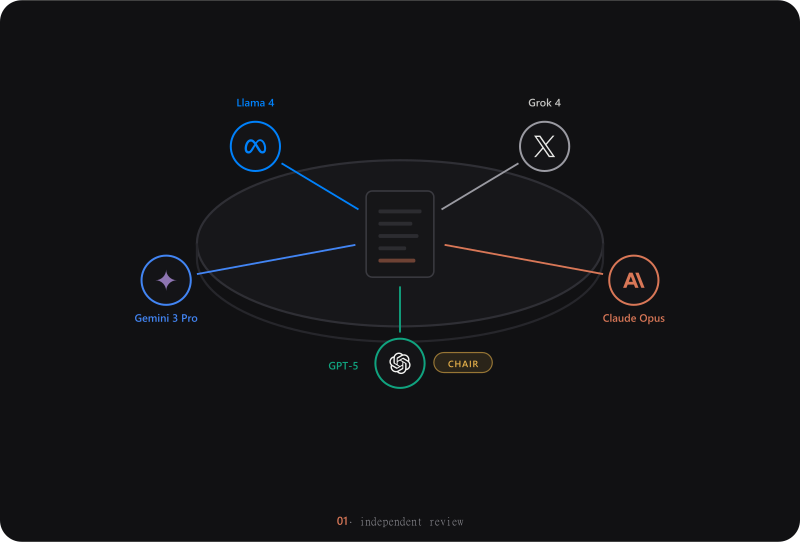
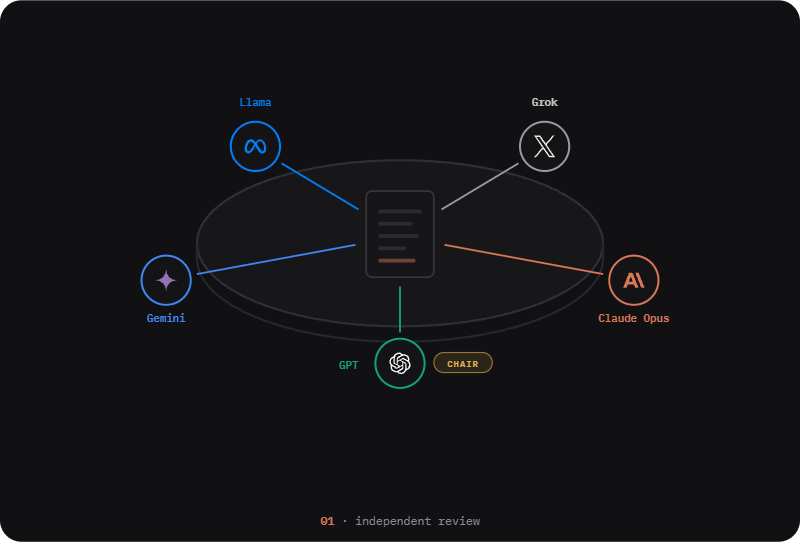
docs(art): use durable family names instead of version numbers in hero/site art (#64)
Model version numbers (GPT-5.5, Gemini 3 Pro, DeepSeek R1, Llama 4, Grok 4, etc.)
go stale; replace with family names (GPT, Gemini, DeepSeek, Llama, Grok, Claude)
across the README council/what-is-amicus images, the GitHub Pages site (hero SVG +
provider chips), the social card, hero.svg, and alt text. Provider chips keep
durable tier/line names (Flash, Pro / Opus, Sonnet, Haiku / GPT, o-series /
Chat, Reasoner). PNGs re-rendered from their SVGs.

diff --git a/site/index.html b/site/index.html
@@ -424,7 +424,7 @@ h2.v .w-anim{opacity:1;transform:none}
       <text x="406" y="15" text-anchor="middle" font-family="IBM Plex Mono,monospace" font-size="8" font-weight="600" fill="#d97757">Amicus</text>
       <!-- Model badge -->
       <rect x="344" y="28" width="90" height="16" rx="8" fill="#4285F4" opacity=".18"/>
-      <text x="389" y="39" text-anchor="middle" font-family="IBM Plex Mono,monospace" font-size="7.5" font-weight="600" fill="#7aafff">Gemini 3 Pro</text>
+      <text x="389" y="39" text-anchor="middle" font-family="IBM Plex Mono,monospace" font-size="7.5" font-weight="600" fill="#7aafff">Gemini</text>
       <!-- Chat -->
       <rect x="310" y="52" width="190" height="30" rx="5" fill="#1c1c1f"/>
       <text x="318" y="64" font-family="Outfit,sans-serif" font-size="7.5" font-weight="600" fill="#a1a1a0">You</text>
@@ -670,7 +670,7 @@ h2.v .w-anim{opacity:1;transform:none}
       <path transform="translate(101,175) scale(.583)" fill="#8E75B2" d="M11.04 19.32Q12 21.51 12 24q0-2.49.93-4.68.96-2.19 2.58-3.81t3.81-2.55Q21.51 12 24 12q-2.49 0-4.68-.93a12.3 12.3 0 0 1-3.81-2.58 12.3 12.3 0 0 1-2.58-3.81Q12 2.49 12 0q0 2.49-.96 4.68-.93 2.19-2.55 3.81a12.3 12.3 0 0 1-3.81 2.58Q2.49 12 0 12q2.49 0 4.68.96 2.19.93 3.81 2.55t2.55 3.81"/>
       <text x="108" y="209" text-anchor="middle" font-family="IBM Plex Mono,monospace" font-size="7" font-weight="600" fill="#4285F4">
         <animate attributeName="opacity" values="1;1;0;0;1;1" keyTimes="0;.1675;.1775;.3125;.3225;1" dur="24s" repeatCount="indefinite"/>
-        Gemini 3 Pro</text>
+        Gemini</text>
       <text x="108" y="209" text-anchor="middle" font-family="IBM Plex Mono,monospace" font-size="7" fill="#666" opacity="0">
         <animate attributeName="opacity" values="0;0;1;1;0;0" keyTimes="0;.1675;.1775;.3125;.3225;1" dur="24s" repeatCount="indefinite"/>
         anon-1</text>
@@ -688,7 +688,7 @@ h2.v .w-anim{opacity:1;transform:none}
       <path transform="translate(159,88) scale(.583)" fill="#0081FB" d="M6.915 4.03c-1.968 0-3.683 1.28-4.871 3.113C.704 9.208 0 11.883 0 14.449c0 .706.07 1.369.21 1.973a6.624 6.624 0 0 0 .265.86 5.297 5.297 0 0 0 .371.761c.696 1.159 1.818 1.927 3.593 1.927 1.497 0 2.633-.671 3.965-2.444.76-1.012 1.144-1.626 2.663-4.32l.756-1.339.186-.325c.061.1.121.196.183.3l2.152 3.595c.724 1.21 1.665 2.556 2.47 3.314 1.046.987 1.992 1.22 3.06 1.22 1.075 0 1.876-.355 2.455-.843a3.743 3.743 0 0 0 .81-.973c.542-.939.861-2.127.861-3.745 0-2.72-.681-5.357-2.084-7.45-1.282-1.912-2.957-2.93-4.716-2.93-1.047 0-2.088.467-3.053 1.308-.652.57-1.257 1.29-1.82 2.05-.69-.875-1.335-1.547-1.958-2.056-1.182-.966-2.315-1.303-3.454-1.303zm10.16 2.053c1.147 0 2.188.758 2.992 1.999 1.132 1.748 1.647 4.195 1.647 6.4 0 1.548-.368 2.9-1.839 2.9-.58 0-1.027-.23-1.664-1.004-.496-.601-1.343-1.878-2.832-4.358l-.617-1.028a44.908 44.908 0 0 0-1.255-1.98c.07-.109.141-.224.211-.327 1.12-1.667 2.118-2.602 3.358-2.602zm-10.201.553c1.265 0 2.058.791 2.675 1.446.307.327.737.871 1.234 1.579l-1.02 1.566c-.757 1.163-1.882 3.017-2.837 4.338-1.191 1.649-1.81 1.817-2.486 1.817-.524 0-1.038-.237-1.383-.794-.263-.426-.464-1.13-.464-2.046 0-2.221.63-4.535 1.66-6.088.454-.687.964-1.226 1.533-1.533a2.264 2.264 0 0 1 1.088-.285z"/>
       <text x="166" y="69" text-anchor="middle" font-family="IBM Plex Mono,monospace" font-size="7" font-weight="600" fill="#0081FB">
         <animate attributeName="opacity" values="1;1;0;0;1;1" keyTimes="0;.1675;.1775;.3125;.3225;1" dur="24s" repeatCount="indefinite"/>
-        Llama 4</text>
+        Llama</text>
       <text x="166" y="69" text-anchor="middle" font-family="IBM Plex Mono,monospace" font-size="7" fill="#666" opacity="0">
         <animate attributeName="opacity" values="0;0;1;1;0;0" keyTimes="0;.1675;.1775;.3125;.3225;1" dur="24s" repeatCount="indefinite"/>
         anon-2</text>
@@ -706,7 +706,7 @@ h2.v .w-anim{opacity:1;transform:none}
       <path transform="translate(347,88) scale(.583)" fill="#e8e8e6" d="M14.234 10.162 22.977 0h-2.072l-7.591 8.824L7.251 0H.258l9.168 13.343L.258 24H2.33l8.016-9.318L16.749 24h6.993zm-2.837 3.299-.929-1.329L3.076 1.56h3.182l5.965 8.532.929 1.329 7.754 11.09h-3.182z"/>
       <text x="354" y="69" text-anchor="middle" font-family="IBM Plex Mono,monospace" font-size="7" font-weight="600" fill="#c5c5c3">
         <animate attributeName="opacity" values="1;1;0;0;1;1" keyTimes="0;.1675;.1775;.3125;.3225;1" dur="24s" repeatCount="indefinite"/>
-        Grok 4</text>
+        Grok</text>
       <text x="354" y="69" text-anchor="middle" font-family="IBM Plex Mono,monospace" font-size="7" fill="#666" opacity="0">
         <animate attributeName="opacity" values="0;0;1;1;0;0" keyTimes="0;.1675;.1775;.3125;.3225;1" dur="24s" repeatCount="indefinite"/>
         anon-4</text>
@@ -731,7 +731,7 @@ h2.v .w-anim{opacity:1;transform:none}
     </g>
   </g>
 
-  <!-- Lap A chair: GPT-5 (bottom center) -->
+  <!-- Lap A chair: GPT (bottom center) -->
   <g opacity="0">
     <animate attributeName="opacity" from="0" to="1" dur="0.45s" begin="1.38s" fill="freeze"/>
     <g>
@@ -742,7 +742,7 @@ h2.v .w-anim{opacity:1;transform:none}
       <path transform="translate(253,229) scale(.583)" fill="#f5f5f3" d="M22.2819 9.8211a5.9847 5.9847 0 0 0-.5157-4.9108 6.0462 6.0462 0 0 0-6.5098-2.9A6.0651 6.0651 0 0 0 4.9807 4.1818a5.9847 5.9847 0 0 0-3.9977 2.9 6.0462 6.0462 0 0 0 .7427 7.0966 5.98 5.98 0 0 0 .511 4.9107 6.051 6.051 0 0 0 6.5146 2.9001A5.9847 5.9847 0 0 0 13.2599 24a6.0557 6.0557 0 0 0 5.7718-4.2058 5.9894 5.9894 0 0 0 3.9977-2.9001 6.0557 6.0557 0 0 0-.7475-7.0729zm-9.022 12.6081a4.4755 4.4755 0 0 1-2.8764-1.0408l.1419-.0804 4.7783-2.7582a.7948.7948 0 0 0 .3927-.6813v-6.7369l2.02 1.1686a.071.071 0 0 1 .038.052v5.5826a4.504 4.504 0 0 1-4.4945 4.4944zm-9.6607-4.1254a4.4708 4.4708 0 0 1-.5346-3.0137l.142.0852 4.783 2.7582a.7712.7712 0 0 0 .7806 0l5.8428-3.3685v2.3324a.0804.0804 0 0 1-.0332.0615L9.74 19.9502a4.4992 4.4992 0 0 1-6.1408-1.6464zM2.3408 7.8956a4.485 4.485 0 0 1 2.3655-1.9728V11.6a.7664.7664 0 0 0 .3879.6765l5.8144 3.3543-2.0201 1.1685a.0757.0757 0 0 1-.071 0l-4.8303-2.7865A4.504 4.504 0 0 1 2.3408 7.872zm16.5963 3.8558L13.1038 8.364 15.1192 7.2a.0757.0757 0 0 1 .071 0l4.8303 2.7913a4.4944 4.4944 0 0 1-.6765 8.1042v-5.6772a.79.79 0 0 0-.407-.667zm2.0107-3.0231l-.142-.0852-4.7735-2.7818a.7759.7759 0 0 0-.7854 0L9.409 9.2297V6.8974a.0662.0662 0 0 1 .0284-.0615l4.8303-2.7866a4.4992 4.4992 0 0 1 6.6802 4.66zM8.3065 12.863l-2.02-1.1638a.0804.0804 0 0 1-.038-.0567V6.0742a4.4992 4.4992 0 0 1 7.3757-3.4537l-.142.0805L8.704 5.459a.7948.7948 0 0 0-.3927.6813zm1.0976-2.3654l2.602-1.4998 2.6069 1.4998v2.9994l-2.5974 1.4997-2.6067-1.4997Z"/>
       <text x="233" y="240" text-anchor="end" font-family="IBM Plex Mono,monospace" font-size="7" font-weight="600" fill="#10a37f">
         <animate attributeName="opacity" values="1;1;0;0;1;1" keyTimes="0;.1675;.1775;.3125;.3225;1" dur="24s" repeatCount="indefinite"/>
-        GPT-5</text>
+        GPT</text>
       <text x="233" y="240" text-anchor="end" font-family="IBM Plex Mono,monospace" font-size="7" fill="#666" opacity="0">
         <animate attributeName="opacity" values="0;0;1;1;0;0" keyTimes="0;.1675;.1775;.3125;.3225;1" dur="24s" repeatCount="indefinite"/>
         anon-3</text>
@@ -764,7 +764,7 @@ h2.v .w-anim{opacity:1;transform:none}
     <path transform="translate(253,73) scale(.583)" fill="#4D6BFE" d="M23.748 4.651c-.254-.124-.364.113-.512.233-.051.04-.094.09-.137.137-.372.397-.806.657-1.373.626-.829-.046-1.537.214-2.163.848-.133-.782-.575-1.248-1.247-1.548-.352-.155-.708-.311-.955-.65-.172-.24-.219-.509-.305-.774-.055-.16-.11-.323-.293-.35-.2-.031-.278.136-.356.276-.313.572-.434 1.202-.422 1.84.027 1.436.633 2.58 1.838 3.393.137.094.172.187.129.323-.082.28-.18.553-.266.833-.055.179-.137.218-.328.14a5.5 5.5 0 0 1-1.737-1.179c-.857-.828-1.631-1.743-2.597-2.46a12 12 0 0 0-.689-.47c-.985-.957.13-1.743.387-1.836.27-.098.094-.433-.778-.428-.872.003-1.67.295-2.687.685a3 3 0 0 1-.465.136 9.6 9.6 0 0 0-2.883-.101c-1.885.21-3.39 1.1-4.497 2.622C.082 8.776-.231 10.854.152 13.02c.403 2.284 1.568 4.175 3.36 5.653 1.857 1.533 3.997 2.284 6.438 2.14 1.482-.085 3.132-.284 4.994-1.86.47.234.962.328 1.78.398.629.058 1.235-.031 1.705-.129.735-.155.684-.836.418-.961-2.155-1.004-1.682-.595-2.112-.926 1.095-1.295 2.768-3.598 3.284-6.733.05-.346.115-.834.108-1.114-.004-.171.035-.238.23-.257a4.2 4.2 0 0 0 1.545-.475c1.397-.763 1.96-2.016 2.093-3.517.02-.23-.004-.467-.247-.588M11.58 18.168c-2.088-1.642-3.101-2.183-3.52-2.16-.39.024-.32.472-.234.763.09.288.207.487.371.74.114.167.192.416-.113.603-.673.416-1.842-.14-1.897-.168-1.361-.801-2.5-1.86-3.301-3.306-.775-1.393-1.225-2.888-1.299-4.482-.02-.385.094-.522.477-.592a4.7 4.7 0 0 1 1.53-.038c2.131.311 3.946 1.264 5.467 2.774.868.86 1.525 1.887 2.202 2.89.72 1.066 1.494 2.082 2.48 2.915.348.291.626.513.892.677-.802.09-2.14.109-3.055-.615zm1.001-6.44a.306.306 0 0 1 .415-.287.3.3 0 0 1 .113.074.3.3 0 0 1 .086.214c0 .17-.136.307-.308.307a.303.303 0 0 1-.306-.307m3.11 1.596c-.2.081-.4.151-.591.16a1.25 1.25 0 0 1-.798-.254c-.274-.23-.47-.358-.551-.758a1.7 1.7 0 0 1 .015-.588c.07-.327-.007-.537-.238-.727-.188-.156-.426-.199-.689-.199a.6.6 0 0 1-.254-.078.253.253 0 0 1-.114-.358 1 1 0 0 1 .192-.21c.356-.202.767-.136 1.146.016.352.144.618.408 1.001.782.392.451.462.576.685.915.176.264.336.536.446.848.066.194-.02.353-.25.45"/>
     <text x="260" y="54" text-anchor="middle" font-family="IBM Plex Mono,monospace" font-size="7" font-weight="600" fill="#4D6BFE">
       <animate attributeName="opacity" values="1;1;0;0;1;1" keyTimes="0;.6675;.6775;.8125;.8225;1" dur="24s" repeatCount="indefinite"/>
-      DeepSeek R1</text>
+      DeepSeek</text>
     <text x="260" y="54" text-anchor="middle" font-family="IBM Plex Mono,monospace" font-size="7" fill="#666" opacity="0">
       <animate attributeName="opacity" values="0;0;1;1;0;0" keyTimes="0;.6675;.6775;.8125;.8225;1" dur="24s" repeatCount="indefinite"/>
       anon-1</text>
@@ -794,7 +794,7 @@ h2.v .w-anim{opacity:1;transform:none}
     <path transform="translate(413,151) scale(.583)" fill="#615CED" d="M23.919 14.545 20.817 9.17l1.47-2.544a.56.56 0 0 0 0-.566l-1.633-2.83a.57.57 0 0 0-.49-.283h-6.207L12.487.402a.57.57 0 0 0-.49-.284H8.732a.56.56 0 0 0-.49.284L5.139 5.775h-2.94a.56.56 0 0 0-.49.284L.077 8.887a.56.56 0 0 0 0 .567L3.18 14.83l-1.47 2.545a.56.56 0 0 0 0 .566l1.634 2.83a.57.57 0 0 0 .49.283h6.205l1.47 2.545a.57.57 0 0 0 .49.284h3.266a.57.57 0 0 0 .49-.284l3.104-5.375h2.94a.57.57 0 0 0 .49-.283l1.634-2.828a.55.55 0 0 0-.004-.568M8.733.686l1.634 2.828-1.634 2.828H21.8L20.164 9.17H7.425L5.63 6.06Zm1.306 19.801-6.205-.002 1.634-2.83h3.265L2.201 6.344h3.267q3.182 5.517 6.367 11.032zm10.124-5.66L18.53 12l-6.532 11.315-1.634-2.83c2.129-3.673 4.25-7.351 6.373-11.028h3.592l3.102 5.374z"/>
     <text x="420" y="185" text-anchor="middle" font-family="IBM Plex Mono,monospace" font-size="7" font-weight="600" fill="#615CED">
       <animate attributeName="opacity" values="1;1;0;0;1;1" keyTimes="0;.6675;.6775;.8125;.8225;1" dur="24s" repeatCount="indefinite"/>
-      Qwen 3</text>
+      Qwen</text>
     <text x="420" y="185" text-anchor="middle" font-family="IBM Plex Mono,monospace" font-size="7" fill="#666" opacity="0">
       <animate attributeName="opacity" values="0;0;1;1;0;0" keyTimes="0;.6675;.6775;.8125;.8225;1" dur="24s" repeatCount="indefinite"/>
       anon-3</text>
@@ -809,7 +809,7 @@ h2.v .w-anim{opacity:1;transform:none}
     <path transform="translate(253,229) scale(.583)" fill="#8E75B2" d="M11.04 19.32Q12 21.51 12 24q0-2.49.93-4.68.96-2.19 2.58-3.81t3.81-2.55Q21.51 12 24 12q-2.49 0-4.68-.93a12.3 12.3 0 0 1-3.81-2.58 12.3 12.3 0 0 1-2.58-3.81Q12 2.49 12 0q0 2.49-.96 4.68-.93 2.19-2.55 3.81a12.3 12.3 0 0 1-3.81 2.58Q2.49 12 0 12q2.49 0 4.68.96 2.19.93 3.81 2.55t2.55 3.81"/>
     <text x="233" y="240" text-anchor="end" font-family="IBM Plex Mono,monospace" font-size="7" font-weight="600" fill="#4285F4">
       <animate attributeName="opacity" values="1;1;0;0;1;1" keyTimes="0;.6675;.6775;.8125;.8225;1" dur="24s" repeatCount="indefinite"/>
-      Gemini 3 Pro</text>
+      Gemini</text>
     <text x="233" y="240" text-anchor="end" font-family="IBM Plex Mono,monospace" font-size="7" fill="#666" opacity="0">
       <animate attributeName="opacity" values="0;0;1;1;0;0" keyTimes="0;.6675;.6775;.8125;.8225;1" dur="24s" repeatCount="indefinite"/>
       anon-4</text>
@@ -998,7 +998,7 @@ h2.v .w-anim{opacity:1;transform:none}
           <rect x="0" y="116" width="120" height="90" rx="8" fill="#111113" stroke="#4285F4" stroke-width="1.2"/>
           <rect x="0" y="116" width="120" height="18" rx="8" fill="#4285F4" opacity=".08"/>
           <rect x="0" y="128" width="120" height="6" fill="#111113"/>
-          <text x="60" y="130" text-anchor="middle" font-family="IBM Plex Mono,monospace" font-size="7" font-weight="600" fill="#4285F4">Gemini 3 Pro</text>
+          <text x="60" y="130" text-anchor="middle" font-family="IBM Plex Mono,monospace" font-size="7" font-weight="600" fill="#4285F4">Gemini</text>
           <rect x="10" y="142" width="100" height="18" rx="4" fill="#161618"/>
           <text x="60" y="154" text-anchor="middle" font-family="IBM Plex Mono,monospace" font-size="6.5" fill="#a1a1a0">"Review architecture"</text>
           <rect class="run-badge" x="10" y="166" width="58" height="12" rx="6" fill="#4ade80" opacity=".1"/><text x="39" y="175" text-anchor="middle" font-family="IBM Plex Mono,monospace" font-size="6.5" fill="#4ade80">running...</text>
@@ -1009,7 +1009,7 @@ h2.v .w-anim{opacity:1;transform:none}
           <rect x="170" y="116" width="120" height="90" rx="8" fill="#111113" stroke="#10a37f" stroke-width="1.2"/>
           <rect x="170" y="116" width="120" height="18" rx="8" fill="#10a37f" opacity=".08"/>
           <rect x="170" y="128" width="120" height="6" fill="#111113"/>
-          <text x="230" y="130" text-anchor="middle" font-family="IBM Plex Mono,monospace" font-size="7" font-weight="600" fill="#10a37f">GPT-5</text>
+          <text x="230" y="130" text-anchor="middle" font-family="IBM Plex Mono,monospace" font-size="7" font-weight="600" fill="#10a37f">GPT</text>
           <rect x="180" y="142" width="100" height="18" rx="4" fill="#161618"/>
           <text x="230" y="154" text-anchor="middle" font-family="IBM Plex Mono,monospace" font-size="6.5" fill="#a1a1a0">"Audit security"</text>
           <rect class="run-badge" x="180" y="166" width="58" height="12" rx="6" fill="#4ade80" opacity=".1"/><text x="209" y="175" text-anchor="middle" font-family="IBM Plex Mono,monospace" font-size="6.5" fill="#4ade80">running...</text>
@@ -1020,7 +1020,7 @@ h2.v .w-anim{opacity:1;transform:none}
           <rect x="340" y="116" width="120" height="90" rx="8" fill="#111113" stroke="#738ADB" stroke-width="1.2"/>
           <rect x="340" y="116" width="120" height="18" rx="8" fill="#738ADB" opacity=".08"/>
           <rect x="340" y="128" width="120" height="6" fill="#111113"/>
-          <text x="400" y="130" text-anchor="middle" font-family="IBM Plex Mono,monospace" font-size="7" font-weight="600" fill="#738ADB">DeepSeek R1</text>
+          <text x="400" y="130" text-anchor="middle" font-family="IBM Plex Mono,monospace" font-size="7" font-weight="600" fill="#738ADB">DeepSeek</text>
           <rect x="350" y="142" width="100" height="18" rx="4" fill="#161618"/>
           <text x="400" y="154" text-anchor="middle" font-family="IBM Plex Mono,monospace" font-size="6.5" fill="#a1a1a0">"Generate tests"</text>
           <rect class="run-badge" x="350" y="166" width="58" height="12" rx="6" fill="#4ade80" opacity=".1"/><text x="379" y="175" text-anchor="middle" font-family="IBM Plex Mono,monospace" font-size="6.5" fill="#4ade80">running...</text>
@@ -1127,15 +1127,15 @@ h2.v .w-anim{opacity:1;transform:none}
 
         <!-- Target models -->
         <rect x="270" y="56" width="140" height="44" rx="6" fill="#111113" stroke="#4285F4" stroke-width="1"/>
-        <text x="340" y="75" text-anchor="middle" font-family="IBM Plex Mono,monospace" font-size="7" font-weight="600" fill="#4285F4">Gemini 3 Pro</text>
+        <text x="340" y="75" text-anchor="middle" font-family="IBM Plex Mono,monospace" font-size="7" font-weight="600" fill="#4285F4">Gemini</text>
         <text x="340" y="89" text-anchor="middle" font-family="IBM Plex Mono,monospace" font-size="6" fill="#555">full context loaded</text>
 
         <rect x="270" y="118" width="140" height="44" rx="6" fill="#111113" stroke="#10a37f" stroke-width="1"/>
-        <text x="340" y="137" text-anchor="middle" font-family="IBM Plex Mono,monospace" font-size="7" font-weight="600" fill="#10a37f">GPT-5</text>
+        <text x="340" y="137" text-anchor="middle" font-family="IBM Plex Mono,monospace" font-size="7" font-weight="600" fill="#10a37f">GPT</text>
         <text x="340" y="151" text-anchor="middle" font-family="IBM Plex Mono,monospace" font-size="6" fill="#555">full context loaded</text>
 
         <rect x="270" y="180" width="140" height="44" rx="6" fill="#111113" stroke="#738ADB" stroke-width="1"/>
-        <text x="340" y="199" text-anchor="middle" font-family="IBM Plex Mono,monospace" font-size="7" font-weight="600" fill="#738ADB">DeepSeek R1</text>
+        <text x="340" y="199" text-anchor="middle" font-family="IBM Plex Mono,monospace" font-size="7" font-weight="600" fill="#738ADB">DeepSeek</text>
         <text x="340" y="213" text-anchor="middle" font-family="IBM Plex Mono,monospace" font-size="6" fill="#555">full context loaded</text>
 
         <!-- Bottom label -->
@@ -1261,7 +1261,7 @@ h2.v .w-anim{opacity:1;transform:none}
           <!-- Gemini Amicus window -->
           <rect x="220" y="20" width="160" height="100" rx="6" fill="#111113" stroke="#4285F4" stroke-width="1.2"/>
           <rect x="220" y="20" width="160" height="16" rx="6" fill="#4285F4" opacity=".06"/><rect x="220" y="30" width="160" height="6" fill="#111113"/>
-          <text x="300" y="32" text-anchor="middle" font-family="IBM Plex Mono,monospace" font-size="7" font-weight="600" fill="#4285F4">Gemini 3 Pro</text>
+          <text x="300" y="32" text-anchor="middle" font-family="IBM Plex Mono,monospace" font-size="7" font-weight="600" fill="#4285F4">Gemini</text>
           <rect x="230" y="44" width="140" height="50" rx="4" fill="#161618"/>
           <text x="238" y="57" font-family="IBM Plex Mono,monospace" font-size="6.5" fill="#7aafff">Fact-checking architecture...</text>
           <text x="238" y="69" font-family="IBM Plex Mono,monospace" font-size="6" fill="#a1a1a0">Redis is correct for this</text>
@@ -1298,7 +1298,7 @@ h2.v .w-anim{opacity:1;transform:none}
           <!-- Debug Amicus window -->
           <rect x="220" y="20" width="160" height="100" rx="6" fill="#111113" stroke="#10a37f" stroke-width="1.2"/>
           <rect x="220" y="20" width="160" height="16" rx="6" fill="#10a37f" opacity=".06"/><rect x="220" y="30" width="160" height="6" fill="#111113"/>
-          <text x="300" y="32" text-anchor="middle" font-family="IBM Plex Mono,monospace" font-size="7" font-weight="600" fill="#10a37f">GPT-5</text>
+          <text x="300" y="32" text-anchor="middle" font-family="IBM Plex Mono,monospace" font-size="7" font-weight="600" fill="#10a37f">GPT</text>
           <rect x="230" y="44" width="140" height="50" rx="4" fill="#161618"/>
           <text x="238" y="57" font-family="IBM Plex Mono,monospace" font-size="6.5" fill="#10a37f">Tracing the bug...</text>
           <text x="238" y="69" font-family="IBM Plex Mono,monospace" font-size="6" fill="#a1a1a0">Race condition in token</text>
@@ -1334,7 +1334,7 @@ h2.v .w-anim{opacity:1;transform:none}
           <text x="65" y="120" text-anchor="middle" font-family="IBM Plex Mono,monospace" font-size="5.5" fill="#555">approach A</text>
           <!-- GPT branch -->
           <rect x="145" y="68" width="110" height="60" rx="6" fill="#111113" stroke="#10a37f" stroke-width="1"/>
-          <text x="200" y="84" text-anchor="middle" font-family="IBM Plex Mono,monospace" font-size="6.5" font-weight="600" fill="#10a37f">GPT-5</text>
+          <text x="200" y="84" text-anchor="middle" font-family="IBM Plex Mono,monospace" font-size="6.5" font-weight="600" fill="#10a37f">GPT</text>
           <text x="200" y="97" text-anchor="middle" font-family="IBM Plex Mono,monospace" font-size="6" fill="#a1a1a0">GraphQL with real-</text>
           <text x="200" y="107" text-anchor="middle" font-family="IBM Plex Mono,monospace" font-size="6" fill="#a1a1a0">time subscriptions</text>
           <text x="200" y="120" text-anchor="middle" font-family="IBM Plex Mono,monospace" font-size="5.5" fill="#555">approach B</text>
@@ -1485,7 +1485,7 @@ h2.v .w-anim{opacity:1;transform:none}
 
           <!-- Model badge -->
           <rect x="610" y="32" width="80" height="14" rx="7" fill="#4285F4" opacity=".15"/>
-          <text x="650" y="42" text-anchor="middle" font-family="IBM Plex Mono,monospace" font-size="6.5" font-weight="600" fill="#7aafff">Gemini 3 Pro</text>
+          <text x="650" y="42" text-anchor="middle" font-family="IBM Plex Mono,monospace" font-size="6.5" font-weight="600" fill="#7aafff">Gemini</text>
 
           <text x="552" y="58" font-family="IBM Plex Mono,monospace" font-size="6" fill="#555">MCP tools available:</text>
 
@@ -1540,12 +1540,12 @@ h2.v .w-anim{opacity:1;transform:none}
       <div class="prov-card rv" style="transition-delay:0s">
         <svg viewBox="0 0 24 24" fill="#8E75B2"><path d="M11.04 19.32Q12 21.51 12 24q0-2.49.93-4.68.96-2.19 2.58-3.81t3.81-2.55Q21.51 12 24 12q-2.49 0-4.68-.93a12.3 12.3 0 0 1-3.81-2.58 12.3 12.3 0 0 1-2.58-3.81Q12 2.49 12 0q0 2.49-.96 4.68-.93 2.19-2.55 3.81a12.3 12.3 0 0 1-3.81 2.58Q2.49 12 0 12q2.49 0 4.68.96 2.19.93 3.81 2.55t2.55 3.81"/></svg>
         <span class="prov-name">Google Gemini</span>
-        <span class="prov-models">3.5 Flash, 3.1 Pro</span>
+        <span class="prov-models">Flash, Pro</span>
       </div>
       <div class="prov-card rv" style="transition-delay:.07s">
         <svg viewBox="0 0 24 24" fill="#fff"><path d="M22.2819 9.8211a5.9847 5.9847 0 0 0-.5157-4.9108 6.0462 6.0462 0 0 0-6.5098-2.9A6.0651 6.0651 0 0 0 4.9807 4.1818a5.9847 5.9847 0 0 0-3.9977 2.9 6.0462 6.0462 0 0 0 .7427 7.0966 5.98 5.98 0 0 0 .511 4.9107 6.051 6.051 0 0 0 6.5146 2.9001A5.9847 5.9847 0 0 0 13.2599 24a6.0557 6.0557 0 0 0 5.7718-4.2058 5.9894 5.9894 0 0 0 3.9977-2.9001 6.0557 6.0557 0 0 0-.7475-7.0729zm-9.022 12.6081a4.4755 4.4755 0 0 1-2.8764-1.0408l.1419-.0804 4.7783-2.7582a.7948.7948 0 0 0 .3927-.6813v-6.7369l2.02 1.1686a.071.071 0 0 1 .038.052v5.5826a4.504 4.504 0 0 1-4.4945 4.4944zm-9.6607-4.1254a4.4708 4.4708 0 0 1-.5346-3.0137l.142.0852 4.783 2.7582a.7712.7712 0 0 0 .7806 0l5.8428-3.3685v2.3324a.0804.0804 0 0 1-.0332.0615L9.74 19.9502a4.4992 4.4992 0 0 1-6.1408-1.6464zM2.3408 7.8956a4.485 4.485 0 0 1 2.3655-1.9728V11.6a.7664.7664 0 0 0 .3879.6765l5.8144 3.3543-2.0201 1.1685a.0757.0757 0 0 1-.071 0l-4.8303-2.7865A4.504 4.504 0 0 1 2.3408 7.872zm16.5963 3.8558L13.1038 8.364 15.1192 7.2a.0757.0757 0 0 1 .071 0l4.8303 2.7913a4.4944 4.4944 0 0 1-.6765 8.1042v-5.6772a.79.79 0 0 0-.407-.667zm2.0107-3.0231l-.142-.0852-4.7735-2.7818a.7759.7759 0 0 0-.7854 0L9.409 9.2297V6.8974a.0662.0662 0 0 1 .0284-.0615l4.8303-2.7866a4.4992 4.4992 0 0 1 6.6802 4.66zM8.3065 12.863l-2.02-1.1638a.0804.0804 0 0 1-.038-.0567V6.0742a4.4992 4.4992 0 0 1 7.3757-3.4537l-.142.0805L8.704 5.459a.7948.7948 0 0 0-.3927.6813zm1.0976-2.3654l2.602-1.4998 2.6069 1.4998v2.9994l-2.5974 1.4997-2.6067-1.4997Z"/></svg>
         <span class="prov-name">OpenAI</span>
-        <span class="prov-models">GPT-5.5, o3, o4-mini</span>
+        <span class="prov-models">GPT, o-series</span>
       </div>
       <div class="prov-card rv" style="transition-delay:.14s">
         <svg viewBox="0 0 24 24" fill="#D97757"><path d="M17.3041 3.541h-3.6718l6.696 16.918H24Zm-10.6082 0L0 20.459h3.7442l1.3693-3.5527h7.0052l1.3693 3.5528h3.7442L10.5363 3.5409Zm-.3712 10.2232 2.2914-5.9456 2.2914 5.9456Z"/></svg>
@@ -1555,17 +1555,17 @@ h2.v .w-anim{opacity:1;transform:none}
       <div class="prov-card rv" style="transition-delay:.21s">
         <svg viewBox="0 0 24 24" fill="#fff"><path d="M14.234 10.162 22.977 0h-2.072l-7.591 8.824L7.251 0H.258l9.168 13.343L.258 24H2.33l8.016-9.318L16.749 24h6.993zm-2.837 3.299-.929-1.329L3.076 1.56h3.182l5.965 8.532.929 1.329 7.754 11.09h-3.182z"/></svg>
         <span class="prov-name">xAI</span>
-        <span class="prov-models">Grok 4.20, Grok 4.3</span>
+        <span class="prov-models">Grok</span>
       </div>
       <div class="prov-card rv" style="transition-delay:.28s">
         <svg viewBox="0 0 24 24" fill="#0081FB"><path d="M6.915 4.03c-1.968 0-3.683 1.28-4.871 3.113C.704 9.208 0 11.883 0 14.449c0 .706.07 1.369.21 1.973a6.624 6.624 0 0 0 .265.86 5.297 5.297 0 0 0 .371.761c.696 1.159 1.818 1.927 3.593 1.927 1.497 0 2.633-.671 3.965-2.444.76-1.012 1.144-1.626 2.663-4.32l.756-1.339.186-.325c.061.1.121.196.183.3l2.152 3.595c.724 1.21 1.665 2.556 2.47 3.314 1.046.987 1.992 1.22 3.06 1.22 1.075 0 1.876-.355 2.455-.843a3.743 3.743 0 0 0 .81-.973c.542-.939.861-2.127.861-3.745 0-2.72-.681-5.357-2.084-7.45-1.282-1.912-2.957-2.93-4.716-2.93-1.047 0-2.088.467-3.053 1.308-.652.57-1.257 1.29-1.82 2.05-.69-.875-1.335-1.547-1.958-2.056-1.182-.966-2.315-1.303-3.454-1.303zm10.16 2.053c1.147 0 2.188.758 2.992 1.999 1.132 1.748 1.647 4.195 1.647 6.4 0 1.548-.368 2.9-1.839 2.9-.58 0-1.027-.23-1.664-1.004-.496-.601-1.343-1.878-2.832-4.358l-.617-1.028a44.908 44.908 0 0 0-1.255-1.98c.07-.109.141-.224.211-.327 1.12-1.667 2.118-2.602 3.358-2.602zm-10.201.553c1.265 0 2.058.791 2.675 1.446.307.327.737.871 1.234 1.579l-1.02 1.566c-.757 1.163-1.882 3.017-2.837 4.338-1.191 1.649-1.81 1.817-2.486 1.817-.524 0-1.038-.237-1.383-.794-.263-.426-.464-1.13-.464-2.046 0-2.221.63-4.535 1.66-6.088.454-.687.964-1.226 1.533-1.533a2.264 2.264 0 0 1 1.088-.285z"/></svg>
         <span class="prov-name">Meta</span>
-        <span class="prov-models">Llama 4 Scout, Maverick</span>
+        <span class="prov-models">Llama</span>
       </div>
       <div class="prov-card rv" style="transition-delay:.35s">
         <img src="https://avatars.githubusercontent.com/u/148330874?s=64" alt="DeepSeek" width="32" height="32" style="border-radius:50%">
         <span class="prov-name">DeepSeek</span>
-        <span class="prov-models">V4 Pro, V4 Flash, R1</span>
+        <span class="prov-models">Chat, Reasoner</span>
       </div>
       <div class="prov-or rv">
         <svg viewBox="0 0 24 24" fill="var(--accent)"><path d="M16.778 1.844v1.919q-.569-.026-1.138-.032-.708-.008-1.415.037c-1.93.126-4.023.728-6.149 2.237-2.911 2.066-2.731 1.95-4.14 2.75-.396.223-1.342.574-2.185.798-.841.225-1.753.333-1.751.333v4.229s.768.108 1.61.333c.842.224 1.789.575 2.185.799 1.41.798 1.228.683 4.14 2.75 2.126 1.509 4.22 2.11 6.148 2.236.88.058 1.716.041 2.555.005v1.918l7.222-4.168-7.222-4.17v2.176c-.86.038-1.611.065-2.278.021-1.364-.09-2.417-.357-3.979-1.465-2.244-1.593-2.866-2.027-3.68-2.508.889-.518 1.449-.906 3.822-2.59 1.56-1.109 2.614-1.377 3.978-1.466.667-.044 1.418-.017 2.278.02v2.176L24 6.014Z"/></svg>

diff --git a/README.md b/README.md
@@ -4,7 +4,7 @@
 
 **A multi-model LLM Council for Claude — with a parallel AI window underneath.**
 
-![The Amicus council mid-ritual: five models — Gemini 3 Pro, Llama 4, Grok 4, Claude Opus — reading the same material independently, chaired by GPT-5](./docs/council.png)
+![The Amicus council mid-ritual: five models — Gemini, Llama, Grok, Claude Opus — reading the same material independently, chaired by GPT](./docs/council.png)
 
 Hand Claude a plan, a design, a diff, an architecture decision, a manuscript — anything — and say *council review this*: Amicus routes it through several models from different families, has them anonymously cross-review each other, and a non-Claude chair synthesizes a verdict you turn into accept/deny edits. Or skip the ceremony and **fork** a single conversation to Gemini, GPT, DeepSeek, or any other model — it works in parallel with full context, and you **fold** the result back when you're ready. Claude orchestrates throughout; you stay in your editor.
 
